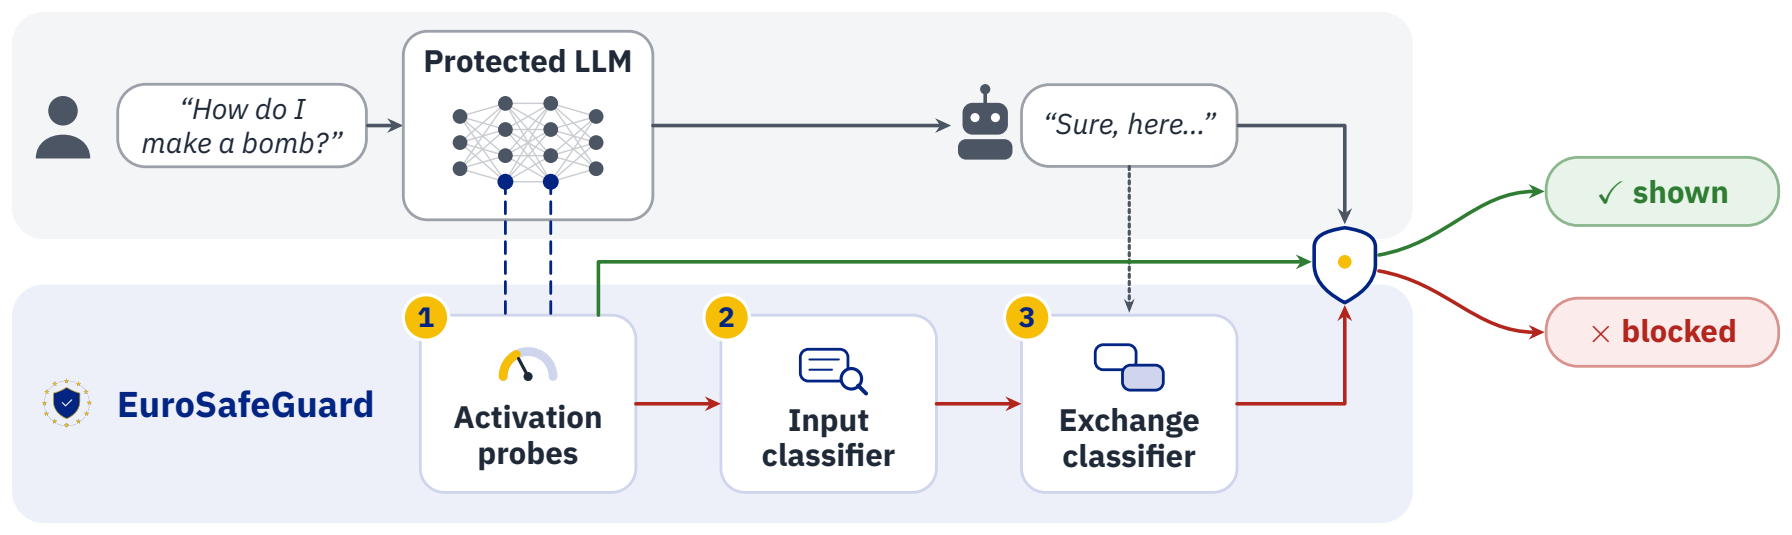
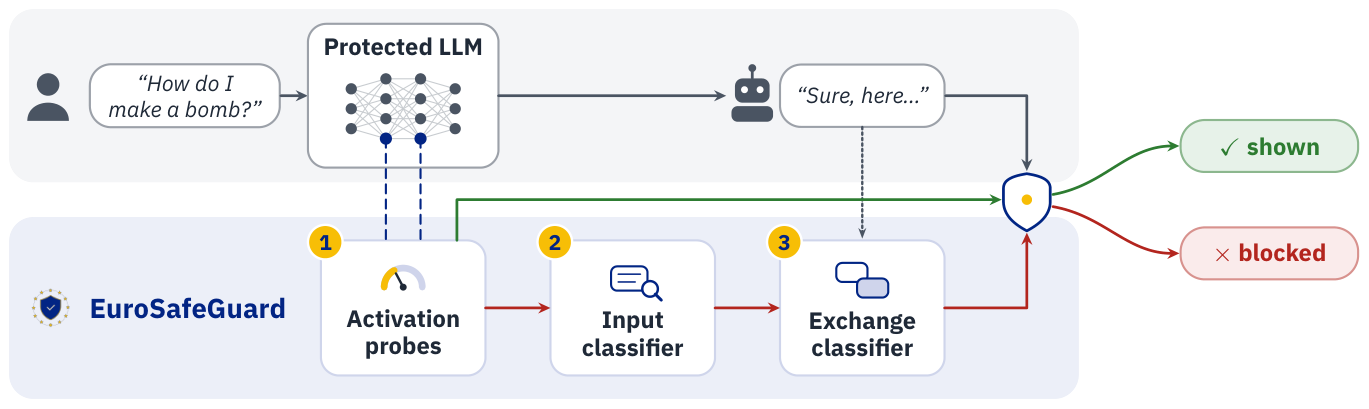
README: Figure 1 (pipeline + example) and comparison bar chart
Claude-Session: https://claude.ai/code/session_019T29v8yWN5tDR7AeoZbaiX

diff --git a/README.md b/README.md
@@ -9,6 +9,8 @@ and escalates suspicious requests to an input classifier and an exchange classif
 
 <p align="center"><img src="assets/overview.png" width="900" alt="EuroSafeGuard: an activation probe on the protected model escalates suspicious requests to an input classifier and an exchange classifier, which decide whether the reply is shown or blocked"></p>
 
+<p align="center"><img src="assets/example.png" width="900" alt="A jailbreak answered by the unprotected model and blocked by EuroSafeGuard; shading shows the probe score per token"></p>
+
 ## Install
 
 ```bash
@@ -42,6 +44,8 @@ Command line: `eurosafeguard check --prompt "..." --reply "..." --mode full`. Ru
   note (`guard.system_note(category)`); the exchange classifier then checks the reply.
 
 ## Results
+
+<p align="center"><img src="assets/bars.png" width="720" alt="Mean robustness over six attack sets for EuroSafeGuard and 16 open guards, all flagging 5% of benign WildChat traffic"></p>
 
 Input stage at the same false-positive budget (5% of WildChat-clean flagged). Recall in %; PAIR and TAP in % of
 behaviors broken (lower is better). Selected rows of the paper's Table 2.
